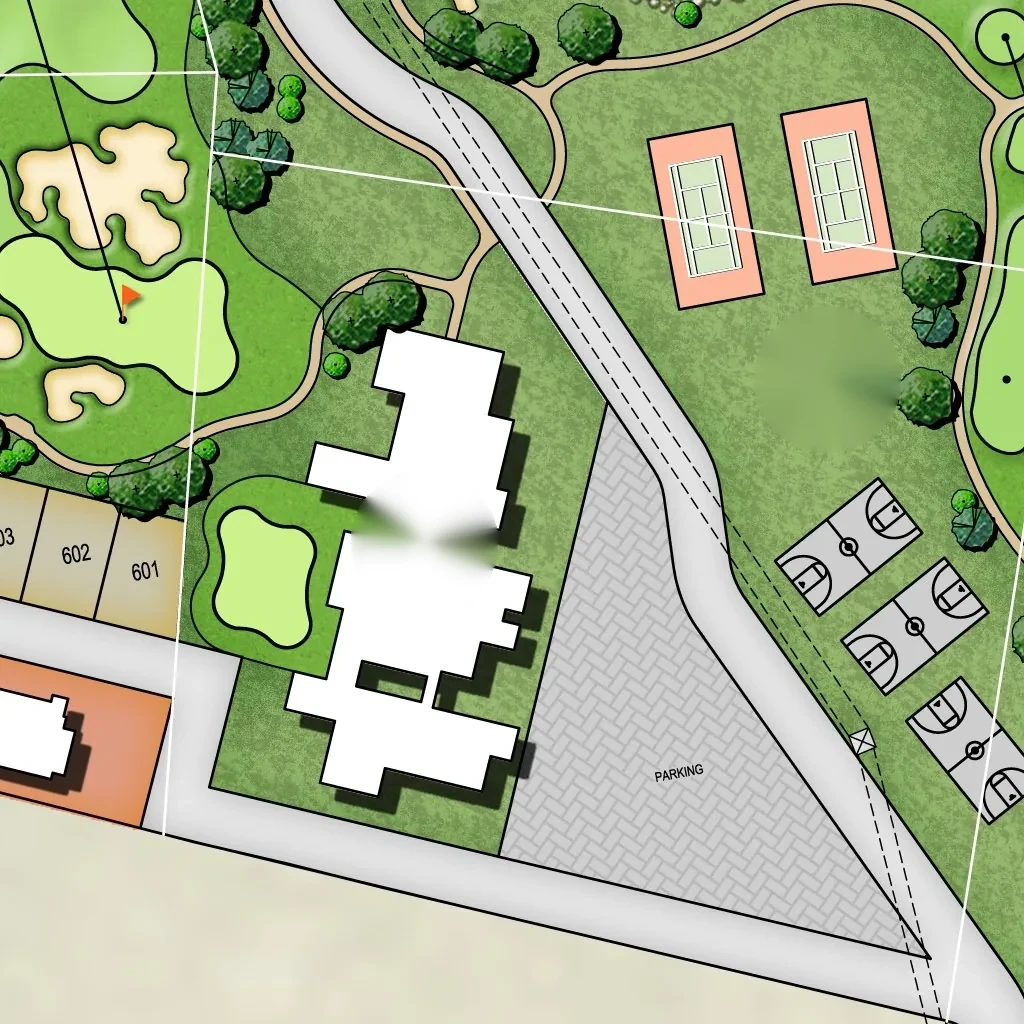
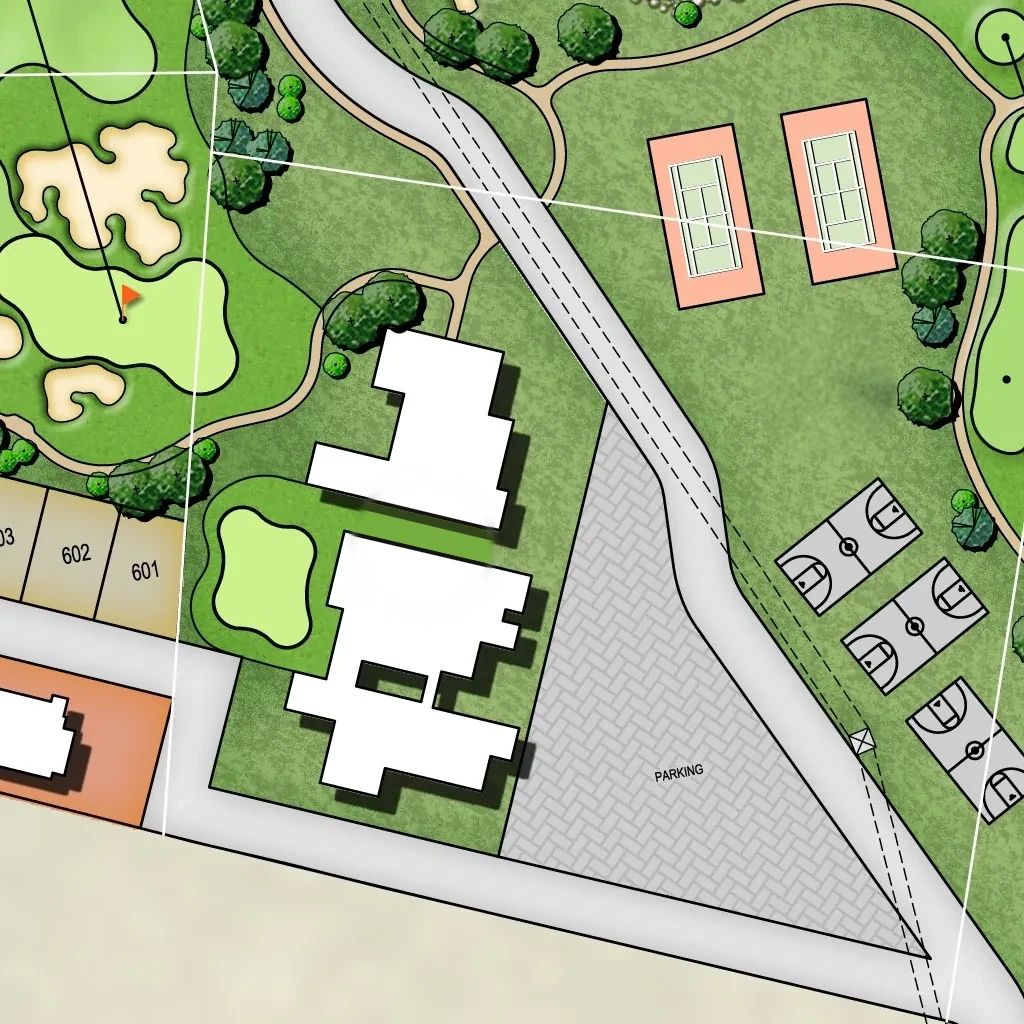
Public map: Restaurant is the building at the old marker 3, the white building is Members' Club & Banquet; markers repainted cleanly (no smudges, box edge and building outlines redrawn)

Changed region(s): [[0.3438, 0.4688, 0.5, 0.5625]]

diff --git a/src/lib/directions.ts b/src/lib/directions.ts
@@ -18,8 +18,8 @@ export interface Place {
 /** Numbered places from the master plan's legend (positions of its red markers). */
 export const AMENITIES: Place[] = [
   { id: 'entry-main', label: 'Main entry gate', kind: 'amenity', pt: [47.0, 79.63] },
-  { id: 'clubhouse', label: 'Restaurant', kind: 'amenity', pt: [40.24, 58.38] },
-  { id: 'practice', label: 'Golf practice facilities', kind: 'amenity', pt: [48.16, 46.93] },
+  { id: 'clubhouse', label: "Members' Club & Banquet", kind: 'amenity', pt: [40.24, 58.38] },
+  { id: 'practice', label: 'Restaurant', kind: 'amenity', pt: [48.16, 46.93] },
   { id: 'sports', label: 'Sports courts', kind: 'amenity', pt: [43.83, 56.33] },
 ];
 
@@ -331,8 +331,8 @@ export function yardagesFrom(pt: MapPt): Yardage[] {
   const by = (to: MapPt) => { const r = findRoute(pt, to); return r ? planMetres(r.points) : Infinity; };
   const pick = (id: string) => AMENITIES.find((a) => a.id === id)!;
   const out: Yardage[] = [
-    { label: 'Restaurant', metres: by(pick('clubhouse').pt) },
-    { label: 'Golf practice', metres: by(pick('practice').pt) },
+    { label: "Members' Club & Banquet", metres: by(pick('clubhouse').pt) },
+    { label: 'Restaurant', metres: by(pick('practice').pt) },
     { label: 'Sports courts', metres: by(pick('sports').pt) },
     { label: 'Main entry gate', metres: by(pick('entry-main').pt) },
   ];

diff --git a/src/components/PlanLandmarks.tsx b/src/components/PlanLandmarks.tsx
@@ -20,9 +20,9 @@ const at = (id: string): [number, number] => AMENITIES.find((a) => a.id === id)!
 
 const LANDMARKS: Landmark[] = [
   { id: 'gate-main', label: 'Main Entry', pt: at('entry-main'), gate: true, minZoom: 0, rank: 10 },
-  { id: 'clubhouse', label: 'Restaurant', pt: at('clubhouse'), minZoom: 1.3, rank: 8 },
+  { id: 'clubhouse', label: "Members' Club & Banquet", pt: at('clubhouse'), minZoom: 1.3, rank: 8 },
   { id: 'sports', label: 'Sports Courts', pt: at('sports'), minZoom: 1.6, rank: 6 },
-  { id: 'practice', label: 'Golf Practice', pt: at('practice'), minZoom: 1.3, rank: 7 },
+  { id: 'practice', label: 'Restaurant', pt: at('practice'), minZoom: 1.3, rank: 7 },
   { id: 'commercial', label: 'Commercial & Residential', pt: [14.89, 54.36], minZoom: 1.8, rank: 4 },
 ];
 

diff --git a/scripts/clean_plan_legend.py b/scripts/clean_plan_legend.py
@@ -32,7 +32,7 @@ MARKERS = [
     (0.2259, 0.2728), (0.3821, 0.3331), (0.3477, 0.4076), (0.4816, 0.4693), (0.1489, 0.5436),
     (0.4383, 0.5633), (0.4024, 0.5837), (0.1580, 0.5847), (0.4507, 0.7451), (0.4699, 0.7963),
 ]
-MARKER_R = 0.0066  # fraction of the plan width: the red disc, its white rim and its shadow
+MARKER_R = 0.0053  # fraction of the plan width: the red disc, its white rim and its shadow
 
 # The legend block (x0, y0, x1, y1) and the clean strip of paper below it that supplies the grain.
 LEGEND = (0.084, 0.713, 0.274, 0.918)
@@ -111,16 +111,119 @@ def clean_legend(name, w, h, tiled):
     write_level(name, w, h, tiled, bx0, by0, img)
 
 
+def fill_generic(img, mask, r):
+    """Plain fill for a marker on grass, water or paper: a smooth inpaint with the surroundings' grain put back."""
+    s = max(1, r // 10)
+    small = cv2.resize(img, (img.shape[1] // s, img.shape[0] // s), interpolation=cv2.INTER_AREA)
+    msmall = cv2.resize(mask, (small.shape[1], small.shape[0]), interpolation=cv2.INTER_NEAREST)
+    base = cv2.inpaint(small, msmall, 3, cv2.INPAINT_TELEA)
+    base = cv2.resize(base, (img.shape[1], img.shape[0]), interpolation=cv2.INTER_CUBIC).astype(np.float32)
+    base = cv2.GaussianBlur(base, (0, 0), max(1.0, r * 0.12))
+    f = img.astype(np.float32)
+    # Grain like the surroundings': noise as strong as the fine detail in a ring just outside the disc.
+    hh, ww = img.shape[:2]
+    yy, xx = np.mgrid[0:hh, 0:ww].astype(np.float32)
+    cx, cy = ww / 2, hh / 2
+    dist = np.hypot(xx - cx, yy - cy)
+    ring = (dist > r * 1.35) & (dist < r * 1.9)
+    fine = f - cv2.GaussianBlur(f, (0, 0), max(1.0, r * 0.05))
+    # Robust spread (a line or edge in the ring must not make the fill noisy), capped.
+    fr = fine[ring] if ring.any() else np.zeros((1, 3), np.float32)
+    std = np.minimum(np.median(np.abs(fr - np.median(fr, axis=0)), axis=0) * 1.48, 7.0)
+    rng = np.random.default_rng(7)
+    noise = cv2.GaussianBlur(rng.standard_normal((hh, ww)).astype(np.float32), (0, 0), max(0.7, r * 0.025))
+    noise /= max(noise.std(), 1e-6)
+    grain = noise[..., None] * std[None, None, :] * 0.8
+    a = cv2.GaussianBlur((mask > 0).astype(np.float32), (0, 0), max(1.0, r * 0.06))[..., None]
+    out = f * (1 - a) + (base + grain) * a
+    return np.clip(out, 0, 255).astype(np.uint8)
+
+
+def smooth(d, soft=1.2):
+    """Edge falloff for a signed distance (positive = inside)."""
+    return np.clip(d / soft + 0.5, 0, 1).astype(np.float32)[..., None]
+
+
+def paint(layer, cover, rgb):
+    layer[:] = layer * (1 - cover) + np.array(rgb, np.float32) * cover
+
+
+def club_house(layer, orig, xr, yr, k):
+    """Marker 2 sat where two white blocks meet, a green gap with outlines and shadow between them."""
+    ytop = -53 + 0.24 * (xr + 100)
+    ybot = -10 + 0.235 * (xr + 82)
+    sel = (xr > -95) & (xr < -80) & (yr > -30) & (yr < -15)
+    grass = orig[sel].mean(axis=0) if sel.any() else (110, 160, 60)
+    kk = max(k, 0.0001)
+    soft = max(0.8, 1.2 * k)
+    paint(layer, np.ones_like(yr)[..., None], (255, 255, 255))                        # white blocks
+    paint(layer, smooth((yr - (ytop - 2)) * k, soft) * smooth(((ybot - 2) - yr) * k, soft), (20, 18, 14))
+    paint(layer, smooth((yr - (ytop + 2)) * k, soft) * smooth(((ybot - 3) - yr) * k, soft), grass)
+    shade = smooth((yr - (ytop + 2)) * k, soft) * smooth(((ytop + 11) - yr) * k, soft)
+    paint(layer, shade, (50, 68, 28))                                                  # shadow under the upper block
+    paint(layer, smooth((yr - (ybot - 3)) * k, soft) * smooth(((ybot + 1) - yr) * k, soft), (20, 18, 14))
+
+
+def shop_row(layer, orig, xr, yr, k):
+    """Marker 6 sat on the lower edge and stepped end of a long white building on orange ground."""
+    ln = -29 + 0.48 * (xr + 75)
+    rx = 75 - 1.39 * (yr - 7)
+    sel = (xr > -98) & (xr < -85) & (yr > -5) & (yr < 20)
+    ground = orig[sel].mean(axis=0) if sel.any() else (222, 184, 115)
+    soft = max(0.8, 1.2 * k)
+    paint(layer, np.ones_like(yr)[..., None], tuple(ground))
+    paint(layer, smooth((rx - xr) * k, soft) * smooth(((ln + 2) - yr) * k, soft), (20, 18, 14))   # building plus its outline
+    paint(layer, smooth((rx - 3 - xr) * k, soft) * smooth(((ln - 2) - yr) * k, soft), (255, 255, 255))
+    far = smooth((xr - rx) * k, soft) * smooth((ln + 14 - yr) * k, soft)
+    paint(layer, far, (88, 64, 32))                                                             # its shadow
+
+
+def practice_box(layer, orig, xr, yr, k):
+    """Marker 3 sat on the top edge of the pale-green box (black outline, a white boundary line crosses it)."""
+    sel = (xr > 50) & (xr < 90) & (yr > 70) & (yr < 110)
+    colour = orig[sel].mean(axis=0) if sel.any() else (168, 222, 120)
+    slope = (-40 - 34) / (126 + 111)
+    edge = 34 + slope * (xr + 111)
+    soft = max(0.8, 1.2 * k)
+    paint(layer, smooth((yr - (edge + 2.5)) * k, soft), tuple(colour))
+    # The grass above the edge keeps the fill's fine grain but takes its colour from clean grass beside the box
+    # (the plain fill had picked up some of the sandy path above).
+    gs = (xr > 55) & (xr < 90) & (yr > -70) & (yr < -48)
+    if gs.any():
+        grass = orig[gs].mean(axis=0)
+        low = cv2.GaussianBlur(layer, (0, 0), max(2.0, 18 * k))
+        above = smooth(((edge - 2.5) - yr) * k, soft)
+        retoned = np.array(grass, np.float32) + (layer - low)
+        layer[:] = layer * (1 - above) + retoned * above
+    paint(layer, smooth((yr - (edge - 2.5)) * k, soft) * smooth(((edge + 2.5) - yr) * k, soft), (24, 20, 16))
+    wl = -20.7 + 0.2474 * xr
+    paint(layer, smooth((yr - (wl - 2)) * k, soft) * smooth(((wl + 2) - yr) * k, soft), (255, 255, 255))
+
+
+SPECIAL = {6: club_house, 4: shop_row, 3: practice_box}  # by position in MARKERS
+
+
 def clean_markers(name, w, h, tiled):
     r = max(4, int(MARKER_R * w))
     m = int(r * 2.2)
-    for fx, fy in MARKERS:
+    k = w / 11233.0  # the hand-drawn repairs are measured on the sharpest level, in its pixels
+    for n, (fx, fy) in enumerate(MARKERS):
         cx, cy = int(fx * w), int(fy * h)
         x0, y0, x1, y1 = cx - m, cy - m, cx + m, cy + m
         img = read_level(name, w, h, tiled, x0, y0, x1, y1)
+        # The disc, its white rim, and the shadow it throws a little downwards.
         mask = np.zeros(img.shape[:2], np.uint8)
-        cv2.circle(mask, (m, m), r, 255, -1)
-        out = cv2.inpaint(img, mask, max(3, r // 3), cv2.INPAINT_TELEA)
+        cv2.circle(mask, (m - int(0.04 * r), m + int(0.07 * r)), int(r * 1.2), 255, -1)
+        out = fill_generic(img, mask, r)
+        kind = SPECIAL.get(n)
+        if kind is not None:
+            hh, ww = img.shape[:2]
+            yy, xx = np.mgrid[0:hh, 0:ww].astype(np.float32)
+            xr, yr = (xx - m) / k, (yy - m) / k
+            layer = out.astype(np.float32)
+            kind(layer, img.astype(np.float32), xr, yr, k)
+            alpha = cv2.GaussianBlur((mask > 0).astype(np.float32), (0, 0), max(0.8, r * 0.06))[..., None]
+            out = np.clip(out.astype(np.float32) * (1 - alpha) + layer * alpha, 0, 255).astype(np.uint8)
         write_level(name, w, h, tiled, x0, y0, out)
 
 
